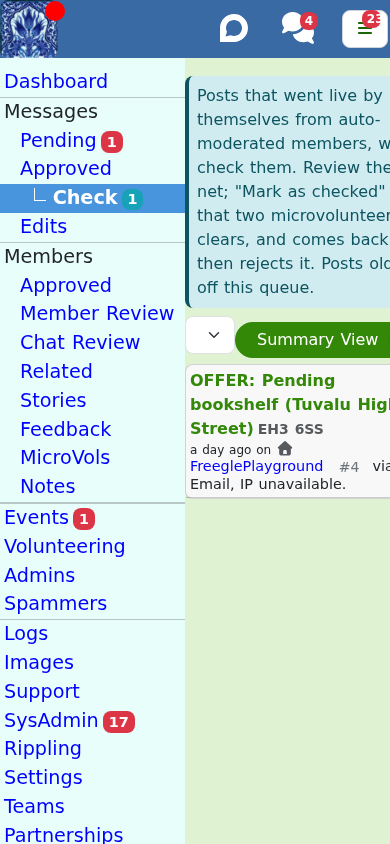
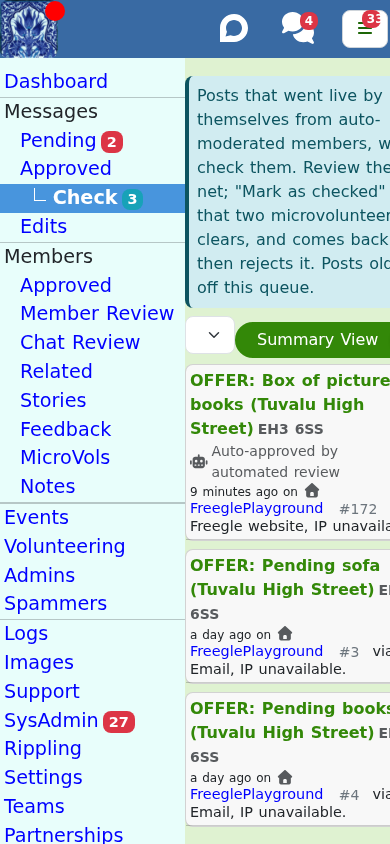
feat(automod): Claude through a subscription token; regenerated moderator screenshots
Without ANTHROPIC_API_KEY the service runs Claude through the claude CLI on
CLAUDE_CODE_OAUTH_TOKEN (from `claude setup-token`), the way Community News does, in an
empty config directory with no tools. One call per post, same answer shape.

The Pending, Check, automated review line and Why? screenshots are regenerated from the
running app with real Claude decisions. The generator can now open something before the
shot, retry the click while the list re-renders, clip to an element and use a taller
window for a long modal.

diff --git a/automod/src/backend.js b/automod/src/backend.js
@@ -4,6 +4,10 @@
 // turns a thrown error into a hold (model: "unavailable"), so this file
 // does not need its own fallback-to-hold logic.
 import { pipeline, env } from '@huggingface/transformers';
+import { execFile } from 'node:child_process';
+import { mkdtempSync } from 'node:fs';
+import { tmpdir } from 'node:os';
+import { join } from 'node:path';
 import Anthropic from '@anthropic-ai/sdk';
 import { z } from 'zod';
 import { zodOutputFormat } from '@anthropic-ai/sdk/helpers/zod';
@@ -210,6 +214,81 @@ export class ClaudeBackend {
 }
 
 /**
+ * Claude through the `claude` CLI on a subscription token (CLAUDE_CODE_OAUTH_TOKEN, from
+ * `claude setup-token`), for a deployment with no metered API key. A raw OAuth call to the
+ * Messages API is not supported, so this shells out, the same way Community News does. Same
+ * questions, same one call per post, same answer shape as ClaudeBackend. The CLI runs in an
+ * empty config directory so no settings, hooks or tools load, and with no tools allowed.
+ */
+export class ClaudeCliBackend extends ClaudeBackend {
+  constructor({ token = process.env.CLAUDE_CODE_OAUTH_TOKEN, model, bin } = {}) {
+    super({ apiKey: 'unused' });
+    this.token = token;
+    this.cliModel = model || process.env.AUTOMOD_CLAUDE_CLI_MODEL || 'opus';
+    this.model = `cli-${this.cliModel}`;
+    this.bin = bin || process.env.AUTOMOD_CLAUDE_BIN || 'claude';
+    this.configDir = mkdtempSync(join(tmpdir(), 'automod-claude-'));
+  }
+
+  run(prompt) {
+    return new Promise((resolve, reject) => {
+      execFile(
+        this.bin,
+        ['-p', prompt, '--output-format', 'json', '--model', this.cliModel, '--allowedTools', ''],
+        {
+          cwd: this.configDir,
+          timeout: 180000,
+          maxBuffer: 1 << 24,
+          env: { ...process.env, CLAUDE_CODE_OAUTH_TOKEN: this.token, CLAUDE_CONFIG_DIR: this.configDir, HOME: this.configDir },
+        },
+        (err, stdout) => {
+          if (err) return reject(new Error(`claude cli failed: ${String(err.message).slice(0, 200)}`));
+          try {
+            const text = JSON.parse(stdout).result || '';
+            resolve(JSON.parse(text.slice(text.indexOf('{'), text.lastIndexOf('}') + 1)));
+          } catch (e) {
+            reject(new Error(`claude cli gave no usable answer: ${e.message}`));
+          }
+        },
+      );
+    });
+  }
+
+  async requestAll(text) {
+    const numbered = this.questions.map((q, i) => `${i}: ${q}`).join('\n');
+    const out = await this.run(
+      CLAUDE_SYSTEM.replace('one yes/no question', 'several yes/no questions') +
+        '\n\nReply with ONLY a JSON object {"answers":[{"id":number,"answer":"yes"|"no","confidence":number,"evidence":string}]}, one entry per question.' +
+        `\n\nQuestions:\n${numbered}\n\nPost:\n${text}`,
+    );
+    const parsed = ClaudeAnswers.safeParse(out);
+    if (!parsed.success) {
+      throw new Error('claude cli answer did not match the schema');
+    }
+    const byQuestion = new Map();
+    for (const a of parsed.data.answers) {
+      if (this.questions[a.id] !== undefined) {
+        byQuestion.set(this.questions[a.id], a);
+      }
+    }
+    return byQuestion;
+  }
+
+  async askOne(question, text) {
+    const out = await this.run(
+      CLAUDE_SYSTEM +
+        '\n\nReply with ONLY a JSON object {"answer":"yes"|"no","confidence":number,"evidence":string}.' +
+        `\n\nQuestion: ${question}\n\nPost:\n${text}`,
+    );
+    const parsed = ClaudeAnswer.safeParse(out);
+    if (!parsed.success) {
+      throw new Error('claude cli answer did not match the schema');
+    }
+    return this.toResult(parsed.data);
+  }
+}
+
+/**
  * Picks a backend per question: the request's override first, then the node's own
  * `check.backend`, then AUTOMOD_BACKEND (default claude). Backends are built on first use.
  */
@@ -217,7 +296,8 @@ export class BackendRouter {
   constructor(env = process.env) {
     this.defaultName = env.AUTOMOD_BACKEND || 'claude';
     this.factories = {
-      claude: () => new ClaudeBackend(),
+      // A metered API key when there is one, else the subscription token through the CLI.
+      claude: () => (env.ANTHROPIC_API_KEY || !env.CLAUDE_CODE_OAUTH_TOKEN ? new ClaudeBackend() : new ClaudeCliBackend()),
       nli: () => new NliBackend(),
       fake: () => new FakeBackend(),
     };

diff --git a/docs/moderators/post-moderation.md b/docs/moderators/post-moderation.md
@@ -389,6 +389,10 @@ These are known and not fully solved:
   answered, how sure it was, and the words in the post that decided it. If one of those
   answers is wrong, **This step is wrong** records it against that question. Those marks
   are how the questions are corrected.
+
+  ![Automated review's reason on a Pending post](assets/automod-line.png)
+
+  ![Why? opened: each question in order, with the one that held the post highlighted](assets/automod-why.png)
 - **Your notes and statuses matter more, not less.** A note on a member keeps their
   posts in Pending. Explicit statuses always win. If you know a reason someone needs
   a human eye, write it down.
